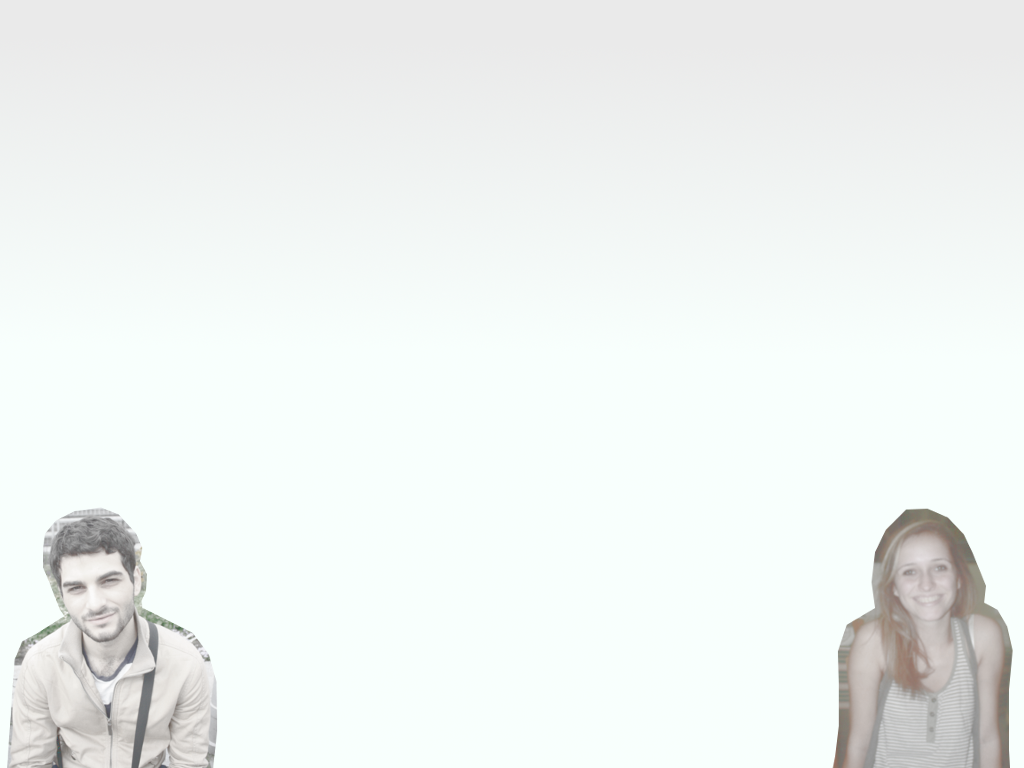
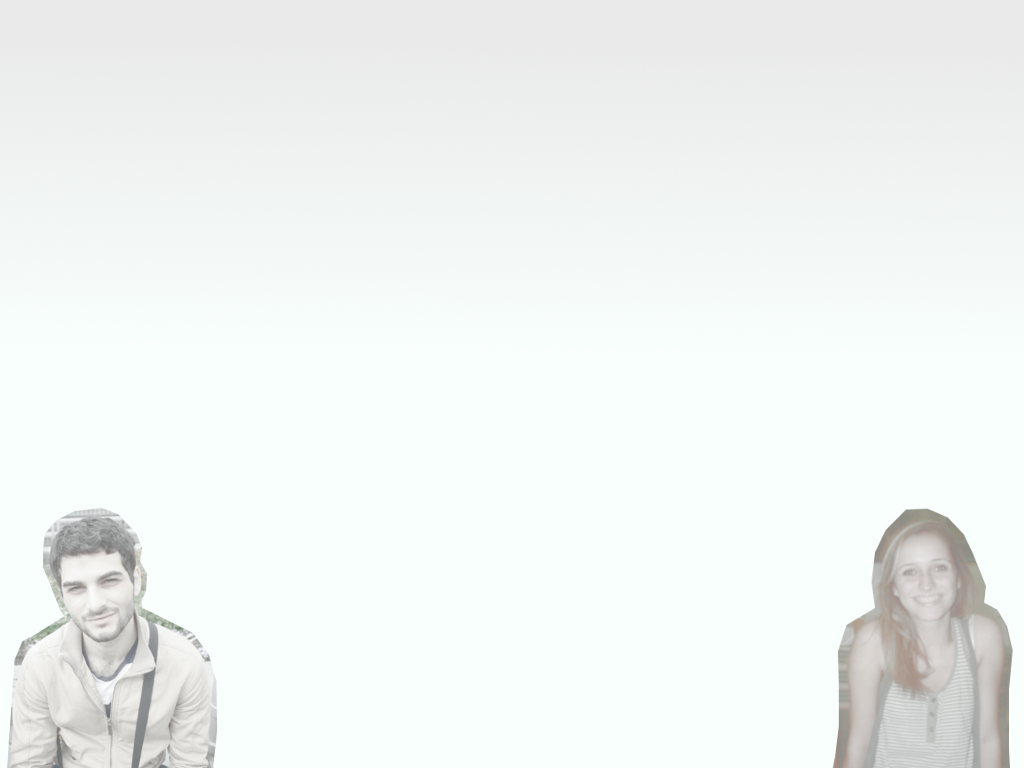
Now CSS image has fade-out fade-in effect

diff --git a/Ceevee10/index.html b/Ceevee10/index.html
@@ -91,8 +91,12 @@
          <div class="six columns add-bottom">
             <h1>Theo</h1>
             <h5>The man who stole her heart</h5>
+            <!-- TODO Change these images -->
+            <p><!-- <a href="#"><img width="300" class="pull-left" alt="sample-image" src="images/Theo_Profile.jpeg" onmouseover="this.src='images/Pamela_Profile.JPG'" onmouseout="this.src='images/Theo_Profile.jpeg'" ></a>  -->
+            
+            <div class="theo-hover">
+            </div>
 
-            <p><a href="#"><img width="300" class="pull-left" alt="sample-image" src="images/Theo_Profile.jpeg"></a> 
                Theo hails from Cyprus but was born in Liverpool, England. He is a simple man, enjoying a quiet night in with his lovely lady, time with friends, cooking,  singing and photography. He likes to work out at the gym but he was never any good at sports, which is probably why he decided to study EEE at Imperial where he would be surrounded by people who, like him, could not kick a ball straight. From the description and the picture, it is clear why Pamela fell for him.  
             </p>
          </div>

diff --git a/Ceevee10/css/layout.css b/Ceevee10/css/layout.css
@@ -996,6 +996,31 @@ footer .social-links li {
 
 footer .social-links li:first-child { margin-left: 0; }
 
+/* Image hover stuff */
+.theo-hover {
+  display: block;
+  width: 300px;
+  height: 300px;
+  background-image: url('../images/Theo_Profile.jpeg');
+  background-position: center center;
+  background-size: cover;
+  -webkit-transition: all 0.5s ease-in-out;
+   -moz-transition: all 0.5s ease-in-out;
+   -o-transition: all 0.5s ease-in-out;
+   -ms-transition: all 0.5s ease-in-out;
+   transition: all 0.5s ease-in-out;  
+}
+
+.theo-hover:hover {
+  display: block;
+  width: 300px;
+  height: 300px;
+  background: url('../images/Pamela_Profile.JPG');
+  background-position: center center;
+  background-size: cover;
+
+}
+
 /* Go To Top Button */
 #go-top {
 	position: absolute;
